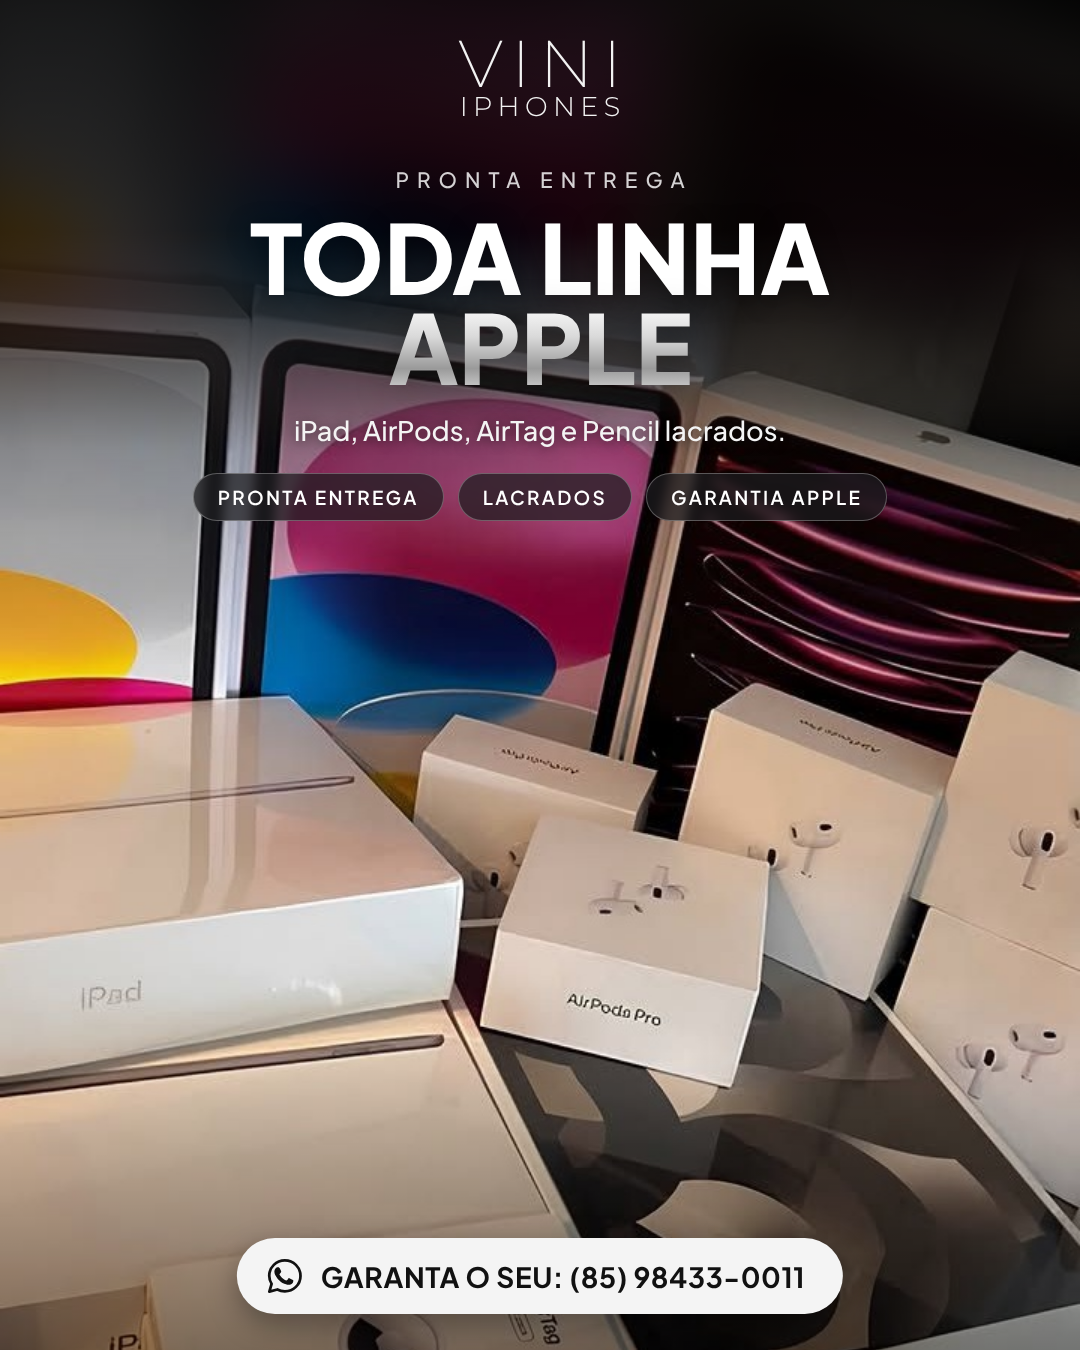
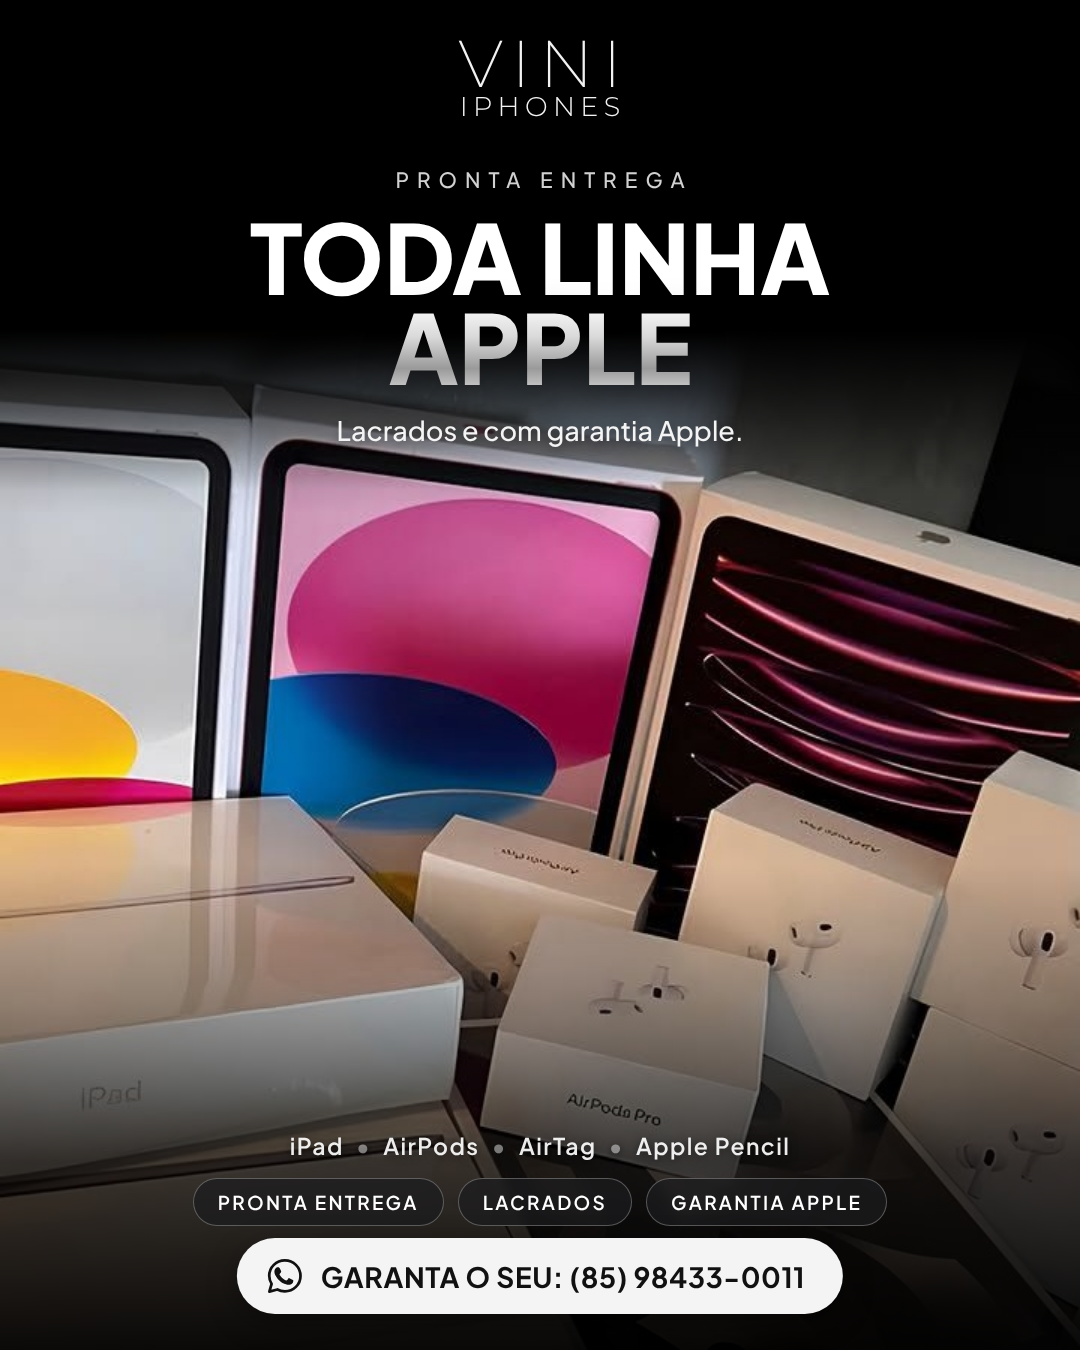
Layout v2 para acessórios, linha Apple e Garmin
Fundo preto, degradê suave em cima e embaixo, produto mais alto, lista de
modelos e selos na base, stories com texto maior e mais alto.

Claude-Session: https://claude.ai/code/session_01PhDRCUWGXWPHs6d3AsBF7P

diff --git a/marketing/posts/template.html b/marketing/posts/template.html
@@ -64,6 +64,35 @@
       linear-gradient(180deg, rgba(0,0,0,.8) 0%, rgba(0,0,0,.6) 28%, rgba(0,0,0,.2) 42%, rgba(0,0,0,0) 52%),
       linear-gradient(0deg, rgba(0,0,0,.55) 0%, rgba(0,0,0,0) 30%); }
   .cta svg { width: 40px; height: 40px; flex: none; }
+
+  /* Layout "v2": fundo preto, degradê suave em cima e embaixo, título no topo e
+     detalhes (lista + selos) na base, logo acima do botão */
+  .v2 .fundo { background: #000 !important; filter: none; }
+  .v2 .sombra { background:
+      linear-gradient(180deg, rgba(0,0,0,.92) 0%, rgba(0,0,0,.7) 14%, rgba(0,0,0,.3) 28%, rgba(0,0,0,0) 38%),
+      linear-gradient(0deg, rgba(0,0,0,.95) 0%, rgba(0,0,0,.75) 14%, rgba(0,0,0,.3) 26%, rgba(0,0,0,0) 36%); }
+  .base { position: absolute; left: 0; right: 0; bottom: 124px; text-align: center; display: none; }
+  .v2 .base { display: block; }
+  .v2 .topo .pills { display: none; }
+  .lista { font-size: 23px; font-weight: 600; letter-spacing: .06em; color: rgba(255,255,255,.92);
+    text-shadow: 0 2px 10px rgba(0,0,0,.6); padding: 0 60px; }
+  .lista .ponto { color: rgba(255,255,255,.45); margin: 0 12px; }
+  .base .pills { margin-top: 18px; }
+
+  .v2.story .sombra { background:
+      linear-gradient(180deg, rgba(0,0,0,.92) 0%, rgba(0,0,0,.7) 18%, rgba(0,0,0,.3) 30%, rgba(0,0,0,0) 40%),
+      linear-gradient(0deg, rgba(0,0,0,.95) 0%, rgba(0,0,0,.88) 18%, rgba(0,0,0,.55) 28%, rgba(0,0,0,0) 42%); }
+  .v2.story .topo { top: 170px; }
+  .v2.story .logo .l1 { font-size: 80px; }
+  .v2.story .logo .l2 { font-size: 32px; }
+  .v2.story .kicker { margin-top: 52px; font-size: 25px; }
+  .v2.story .titulo .t1 { font-size: var(--t1, 118px); }
+  .v2.story .titulo .t2 { font-size: var(--t2, 118px); }
+  .v2.story .sub { font-size: 32px; margin-top: 26px; }
+  .v2.story .base { bottom: 352px; }
+  .v2.story .lista { font-size: 27px; }
+  .v2.story .pill { font-size: 22px; padding: 13px 28px; }
+  .v2.story .base .pills { margin-top: 24px; }
 </style>
 </head>
 <body>
@@ -80,6 +109,11 @@
     <div class="pills" id="pills"></div>
   </div>
 
+  <div class="base">
+    <div class="lista" id="lista"></div>
+    <div class="pills" id="pillsBase"></div>
+  </div>
+
   <div class="cta">
     <svg viewBox="0 0 32 32" fill="none" stroke="#111" stroke-width="2.2" stroke-linejoin="round">
       <path d="M16 3.5C9.1 3.5 3.5 9 3.5 15.8c0 2.4.7 4.6 1.9 6.5L3.6 28.5l6.4-1.7c1.8 1 3.9 1.5 6 1.5 6.9 0 12.5-5.5 12.5-12.4S22.9 3.5 16 3.5z"/>
@@ -93,6 +127,7 @@
   // Dados injetados pelo render.js em window.POST
   const p = window.POST;
   if (p.formato === 'story') document.documentElement.classList.add('story');
+  if (p.estilo) document.documentElement.classList.add(p.estilo);
   const post = document.getElementById('post');
   const fundo = document.getElementById('fundo');
   if (p.fundo) { fundo.style.background = p.fundo; fundo.style.filter = 'none'; }
@@ -101,12 +136,12 @@
   foto.src = p.foto;
   foto.style.width = `${(p.zoom || 1) * 1080}px`;
   foto.style.top = `${p.topo ?? 0}px`;
-  // Foto descida: funde a borda de cima no fundo desfocado
   // Foto menor que a arte: funde as bordas de cima/baixo no fundo desfocado
   foto.onload = () => {
     const alturaArte = post.offsetHeight, topo = p.topo ?? 0, base = topo + foto.offsetHeight;
-    const cima = topo > 0 ? 'transparent 0, #000 220px' : '#000 0';
-    const baixo = base < alturaArte ? '#000 calc(100% - 220px), transparent 100%' : '#000 100%';
+    const e = p.esfumado ?? 220;
+    const cima = topo > 0 ? `transparent 0, #000 ${e}px` : '#000 0';
+    const baixo = base < alturaArte ? `#000 calc(100% - ${e}px), transparent 100%` : '#000 100%';
     const mascaras = [`linear-gradient(180deg, ${cima}, ${baixo})`];
     // Foto mais estreita que a arte: funde também as laterais
     if (foto.offsetWidth < post.offsetWidth) mascaras.push('linear-gradient(90deg, transparent 0, #000 120px, #000 calc(100% - 120px), transparent 100%)');
@@ -120,7 +155,9 @@
   if (p.tamanhoTitulo1) post.style.setProperty('--t1', p.tamanhoTitulo1 + 'px');
   if (p.tamanhoTitulo2) post.style.setProperty('--t2', p.tamanhoTitulo2 + 'px');
   document.getElementById('sub').textContent = p.subtitulo || '';
-  document.getElementById('pills').innerHTML = (p.selos || []).map(s => `<span class="pill">${s}</span>`).join('');
+  const selos = (p.selos || []).map(s => `<span class="pill">${s}</span>`).join('');
+  document.getElementById(p.estilo === 'v2' ? 'pillsBase' : 'pills').innerHTML = selos;
+  document.getElementById('lista').innerHTML = (p.lista || []).join('<span class="ponto">•</span>');
   document.getElementById('cta').textContent = p.cta || 'GARANTA O SEU: (85) 98433-0011';
 </script>
 </body>

diff --git a/CLAUDE.md b/CLAUDE.md
@@ -41,4 +41,9 @@ Stories: mesmo layout do feed, com texto começando abaixo de 230px e o botão d
 Fotos de fornecedor/print: recorte antes (tire barra do celular, logos e preços de outras lojas,
 textos sobrepostos) e salve em fotos/. Legendas e copy de anúncio ficam em `legendas.md`.
 
+Layout "v2" (`"estilo": "v2"` no posts.json), preferido para posts novos: fundo preto,
+sombreamento em degradê preto suave em cima e embaixo (sem escurecer o produto no meio), título no
+topo, produto no meio, e na base uma lista de modelos (`"lista"`) + selos logo acima do botão.
+Nos stories o texto começa em 170px e é maior. Use `"esfumado"` (px) para a borda da foto sumir no preto.
+
 Sempre confira o PNG gerado: texto não pode cobrir o produto principal.
